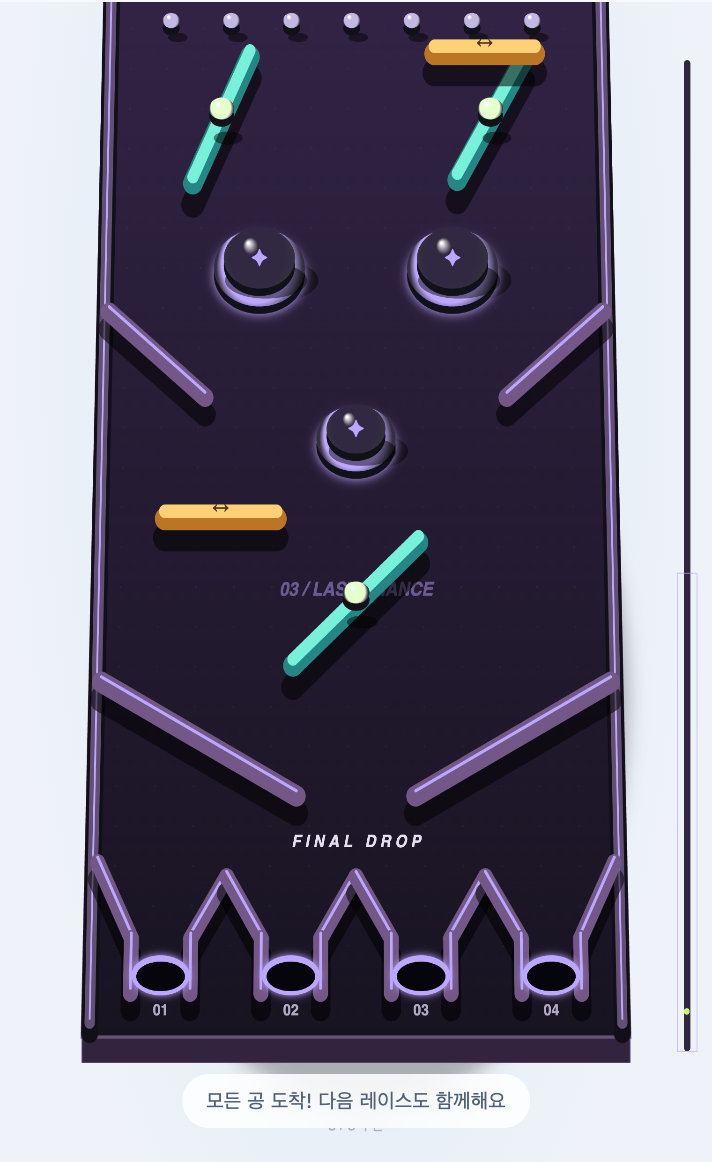
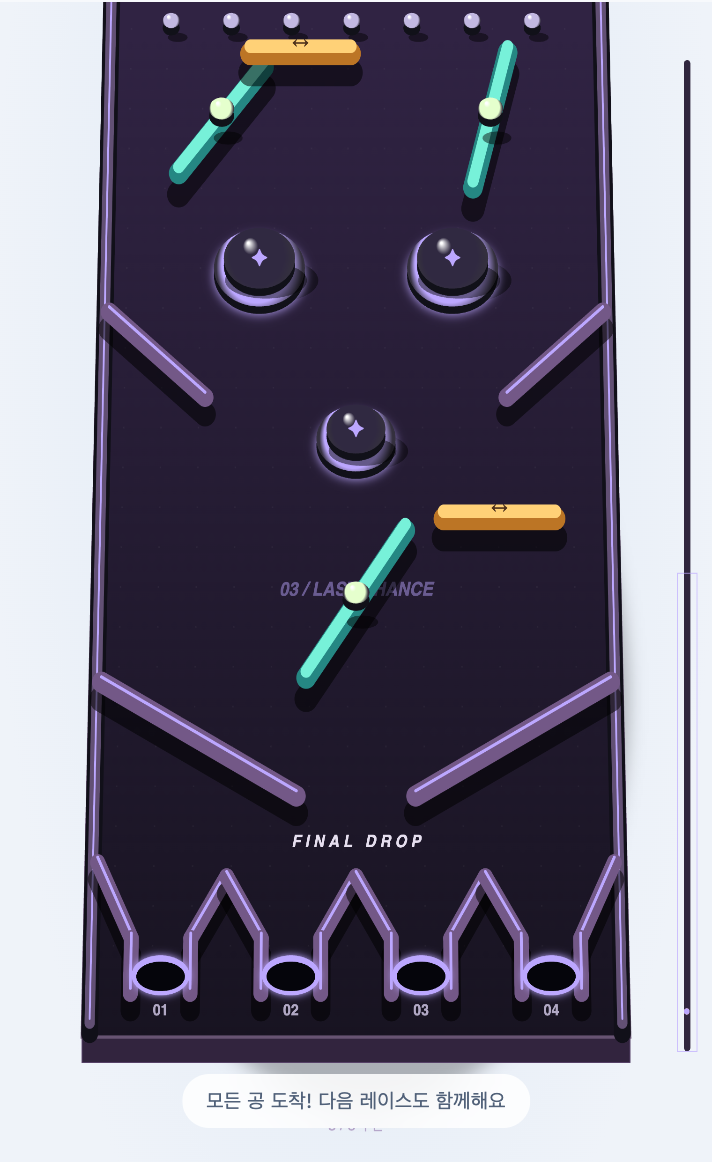
feat(pinball): strengthen 3D depth with perspective cameras and verify 60-ball 3x races

diff --git a/pinball/src/renderer3d.js b/pinball/src/renderer3d.js
@@ -3,16 +3,18 @@ const S=1/60, X=x=>(x-310)*S, Z=y=>y*S;
 const THEMES={neon:{floor:0x164ecc,accent:0xd6ff5f},orbit:{floor:0x9c3b26,accent:0xffd797},zigzag:{floor:0x116a66,accent:0xadf8dd},split:{floor:0x5831a0,accent:0xe9c6ff}};
 export class Renderer3D {
  constructor(canvas){
-  this.canvas=canvas;this.mode='webgl';this.overview=false;this.lastRound=null;this.cameraCenter=400;this.finishedAt=new Map();
+  this.canvas=canvas;this.mode='webgl';this.overview=false;this.angle=0;this.lastRound=null;this.cameraCenter=400;this.finishedAt=new Map();
   this.webgl=new THREE.WebGLRenderer({canvas,antialias:true,alpha:true,powerPreference:'high-performance'});
   this.webgl.setPixelRatio(Math.min(devicePixelRatio||1,1.5));this.webgl.shadowMap.enabled=true;this.webgl.shadowMap.type=THREE.PCFSoftShadowMap;this.webgl.outputColorSpace=THREE.SRGBColorSpace;this.webgl.toneMapping=THREE.ACESFilmicToneMapping;this.webgl.toneMappingExposure=.92;
-  this.scene=new THREE.Scene();this.camera=new THREE.OrthographicCamera(-6,6,8,-8,.1,110);
+  this.scene=new THREE.Scene();this.camera=new THREE.PerspectiveCamera(40,1,.1,180);
   this.scene.add(new THREE.HemisphereLight(0xe4efff,0x48618d,1.1));
   this.light=new THREE.DirectionalLight(0xffffff,2.6);this.light.position.set(-6,16,1);this.light.castShadow=true;this.light.shadow.mapSize.set(1024,1024);this.light.shadow.camera.left=-8;this.light.shadow.camera.right=8;this.light.shadow.camera.top=13;this.light.shadow.camera.bottom=-13;this.light.shadow.camera.near=.1;this.light.shadow.camera.far=50;this.light.shadow.normalBias=.03;this.light.shadow.bias=-.0002;this.scene.add(this.light,this.light.target);
   const rim=new THREE.DirectionalLight(0xb3cdff,.8);rim.position.set(8,6,15);this.scene.add(rim);
   const faces=Array.from({length:6},(_,i)=>{const c=document.createElement('canvas');c.width=c.height=64;const ctx=c.getContext('2d'),g=ctx.createLinearGradient(0,0,0,64);g.addColorStop(0,i===2?'#ffffff':'#c9d9f6');g.addColorStop(.5,'#6f8fbd');g.addColorStop(1,'#182642');ctx.fillStyle=g;ctx.fillRect(0,0,64,64);ctx.fillStyle='#ffffff';ctx.fillRect(6,6,44,12);return c;});this.environment=new THREE.CubeTexture(faces);this.environment.needsUpdate=true;this.scene.environment=this.environment;
   this.labels=document.createElement('div');this.labels.className='ball-labels';canvas.parentElement.append(this.labels);this.hud=document.createElement('div');this.hud.className='camera-hud';canvas.parentElement.append(this.hud);
-  this.progress=document.createElement('div');this.progress.className='course-progress';canvas.parentElement.append(this.progress);this.observer=new ResizeObserver(()=>this.resize());this.observer.observe(canvas);this.resize();
+  this.progress=document.createElement('div');this.progress.className='course-progress';canvas.parentElement.append(this.progress);
+  this.angleButton=document.createElement('button');this.angleButton.className='camera-angle';this.angleButton.type='button';this.angleButton.textContent='◈ 입체 시점';this.angleButton.setAttribute('aria-label','3D 카메라 시점 변경');this.angleButton.addEventListener('click',()=>{this.angle=(this.angle+1)%3;this.angleButton.textContent=['◈ 입체 시점','◈ 측면 시점','◈ 상단 시점'][this.angle];});canvas.parentElement.append(this.angleButton);
+  this.observer=new ResizeObserver(()=>this.resize());this.observer.observe(canvas);this.resize();
   canvas.addEventListener('webglcontextlost',e=>{e.preventDefault();document.dispatchEvent(new Event('pinball-renderer-lost'));});
  }
  resize(){const rect=this.canvas.getBoundingClientRect();this.width=Math.max(1,rect.width);this.height=Math.max(1,rect.height);this.webgl.setSize(this.width,this.height,false);this.aspect=this.width/this.height;}
@@ -27,7 +29,11 @@ export class Renderer3D {
   const map=race.map,theme=THEMES[map.id],length=map.height*S;
   const shape=new THREE.Shape();shape.moveTo(-5.08,-length+.25);shape.lineTo(-5.08,-.25);shape.quadraticCurveTo(-5.08,0,-4.83,0);shape.lineTo(4.83,0);shape.quadraticCurveTo(5.08,0,5.08,-.25);shape.lineTo(5.08,-length+.25);shape.quadraticCurveTo(5.08,-length,4.83,-length);shape.lineTo(-4.83,-length);shape.quadraticCurveTo(-5.08,-length,-5.08,-length+.25);
   for(const h of map.exits){const hole=new THREE.Path();hole.absarc(X(h.x),-Z(map.finish),.5,0,Math.PI*2,true);shape.holes.push(hole);}
-  const board=this.mesh(new THREE.ExtrudeGeometry(shape,{depth:.35,bevelEnabled:true,bevelSegments:2,steps:1,bevelSize:.035,bevelThickness:.035}),this.material(theme.floor,.16,.42),0,-.36,0);board.rotation.x=-Math.PI/2;board.material.envMapIntensity=.12;
+  const deck=this.material(theme.floor,.08,.5);deck.envMapIntensity=.08;
+  const edge=this.material(0x14243e,.45,.28);edge.envMapIntensity=.3;
+  const board=this.mesh(new THREE.ExtrudeGeometry(shape,{depth:.8,bevelEnabled:true,bevelSegments:3,steps:1,bevelSize:.055,bevelThickness:.035}),[deck,edge],0,-.81,0);board.rotation.x=-Math.PI/2;
+  const ground=this.mesh(new THREE.PlaneGeometry(70,100),this.material(0xe7edf5,0,.85),0,-1.55,length/2);ground.rotation.x=-Math.PI/2;ground.castShadow=false;
+  for(const z of [1.4,length/2,length-1.4])for(const x of [-4.2,4.2])this.mesh(new THREE.CylinderGeometry(.28,.4,.7,12),edge,x,-1.14,z);
   const silver=this.material(0xe9eef9,.65,.23),white=this.material(0xf8faff,.2,.3),accent=this.material(theme.accent,.2,.25),dark=this.material(0x192b49,.4,.35);
   this.rail({ax:24,ay:18,bx:24,by:map.height-20,r:10},silver);this.rail({ax:596,ay:18,bx:596,by:map.height-20,r:10},silver);this.rail({ax:24,ay:18,bx:596,by:18,r:10},silver);
   for(const p of map.pins){this.mesh(new THREE.CylinderGeometry(p.r*S,p.r*S,.28,12),silver,X(p.x),.14,Z(p.y));this.mesh(new THREE.SphereGeometry(p.r*S,12,8),white,X(p.x),.28,Z(p.y));}
@@ -42,15 +48,25 @@ export class Renderer3D {
   for(const b of race.balls){const mat=new THREE.MeshPhysicalMaterial({color:b.color,metalness:.25,roughness:.17,clearcoat:1,clearcoatRoughness:.12});const m=this.mesh(sphere,mat,X(b.x),.19,Z(b.y));const label=document.createElement('span');label.className='ball-label';label.textContent=[...b.label].slice(0,5).join('')+([...b.label].length>5?'…':'')+(race.config.people.find(p=>p.id===b.participantId).count>1?`·${b.number}`:'');label.title=b.label;this.labels.append(label);const dot=document.createElement('i');dot.style.background=b.color;this.progress.append(dot);this.balls.set(b.id,{m,label,dot});}
  }
  draw(race,reduced=false,selected=null){
-  if(this.lastRound!==race.roundId)this.build(race);const map=race.map,aspect=this.aspect||1;const halfW=5.95,halfH=halfW/aspect;const span=halfH*2/.857*60;
-  const active=race.balls.filter(b=>!b.finished).sort((a,b)=>a.y-b.y);const progress=active[Math.floor(active.length*.65)]?.y??map.finish;const target=['ready','mixing','countdown'].includes(race.state)?span/2-60:Math.max(span/2-60,Math.min(map.height-span/2+30,progress+100));
+  if(this.lastRound!==race.roundId)this.build(race);const map=race.map,aspect=this.aspect||1;
+  const directions=[new THREE.Vector3(.18,.72,.67),new THREE.Vector3(.35,.60,.72),new THREE.Vector3(0,.94,.34)];const direction=directions[this.angle].normalize();
+  const distance=Math.max(20,7.2/(Math.tan(THREE.MathUtils.degToRad(20))*aspect));
+  const active=race.balls.filter(b=>!b.finished).sort((a,b)=>a.y-b.y);const progress=active[Math.floor(active.length*.65)]?.y??map.finish;const target=['ready','mixing','countdown'].includes(race.state)?400:Math.max(400,Math.min(map.finish-200,progress+100));
   if(race.state!=='paused')this.cameraCenter=reduced?target:this.cameraCenter+(target-this.cameraCenter)*.08;
-  const center=this.overview?map.height/2:this.cameraCenter;const h=this.overview?map.height*S*.46:halfH;this.camera.left=-h*aspect;this.camera.right=h*aspect;this.camera.top=h;this.camera.bottom=-h;this.camera.updateProjectionMatrix();this.camera.position.set(.22,16,Z(center)+9);this.camera.lookAt(0,0,Z(center));
+  const center=this.overview?map.height/2:this.cameraCenter;let cameraDistance=this.overview?Math.max(distance,map.height*S*1.45):distance;
+  this.camera.aspect=aspect;this.camera.updateProjectionMatrix();
+  for(let fit=0;fit<8;fit++){
+   this.camera.position.copy(direction.clone().multiplyScalar(cameraDistance)).add(new THREE.Vector3(0,0,Z(center)));this.camera.lookAt(0,0,Z(center));this.camera.updateMatrixWorld();
+   if(!this.overview)break;
+   const corners=[[-5.15,0],[5.15,0],[-5.15,map.height*S],[5.15,map.height*S]].map(([x,z])=>new THREE.Vector3(x,-.8,z).project(this.camera));
+   if(corners.every(v=>Math.abs(v.x)<.92&&Math.abs(v.y)<.92))break;
+   cameraDistance*=1.1;
+  }
   this.light.position.set(-5,16,Z(center)-5);this.light.target.position.set(0,0,Z(center));
   const segments=race.rotorSegments();segments.forEach((s,i)=>this.rotors[i].quaternion.setFromUnitVectors(new THREE.Vector3(0,1,0),new THREE.Vector3(s.bx-s.ax,0,s.by-s.ay).normalize()));race.sliderSegments().forEach((s,i)=>this.sliders[i].position.x=X((s.ax+s.bx)/2));
   this.gate.visible=['ready','mixing','countdown'].includes(race.state)||(race.state==='paused'&&race.resumeState!=='racing');
   const now=performance.now();for(const b of race.balls){const {m,label,dot}=this.balls.get(b.id);if(b.finished&&!this.finishedAt.has(b.id))this.finishedAt.set(b.id,now);const sink=b.finished?Math.min(1,(now-this.finishedAt.get(b.id))/380):0;m.visible=sink<1;m.position.set(X(b.x),.19-sink*.8,Z(b.y));m.scale.setScalar(1-sink*.6);m.rotation.x+=b.vy*.00025;m.rotation.z-=b.vx*.00025;dot.style.top=`${b.y/map.height*100}%`;const v=new THREE.Vector3(X(b.x),.6,Z(b.y)).project(this.camera);label.hidden=b.finished||this.overview||Math.abs(v.x)>1||Math.abs(v.y)>.98;label.style.left=`${(v.x*.5+.5)*100}%`;label.style.top=`${(-v.y*.5+.5)*100}%`;}
-  this.hud.textContent=this.overview?'COURSE OVERVIEW':`SECTOR ${Math.min(3,Math.floor((center-200)/750)+1).toString().padStart(2,'0')} / 03`;
+  this.hud.textContent=this.overview?'3D / COURSE OVERVIEW':`3D / SECTOR ${Math.max(1,Math.min(3,Math.floor((center-200)/750)+1)).toString().padStart(2,'0')} / 03`;
   this.webgl.render(this.scene,this.camera);
  }
 }

diff --git a/pinball/src/style.css b/pinball/src/style.css
@@ -6,3 +6,4 @@
 :root{--bg:#f2f4f7;--panel:#fff;--line:#dfe3e9;--muted:#6f7784;--text:#172132;--lime:#d5fa54;--purple:#3766d7;color-scheme:light}
 .topbar{background:#fff;min-height:76px;border-bottom-color:#e3e7ed}.brand{font-size:23px;letter-spacing:-1.2px}.brand>span:not(.brand-icon):not(.brand-dot){color:#3766d7}.brand-icon{background:#1f5ae8;color:white;border-radius:10px}.icon-button{border-color:#dce1e9;color:#293448}.icon-button[aria-pressed=true]{border-color:#215ae7;color:#215ae7;background:#edf2ff}.free{color:#718097}.intro{padding:28px 0 24px}.intro .eyebrow{color:#3464d3}.intro h1{font-size:36px;letter-spacing:-1.8px}.intro-note{color:#727e8f}.panel{border-radius:16px;box-shadow:0 3px 15px #182f4c05}.setup{border-color:#e1e6ee}textarea,input[type=text]{background:#f7f9fc;border-color:#dae1ec;color:#182639}textarea{border-radius:9px}.hint code{color:#33547e}.count-strip strong{color:#1a57da}.rule-option{border-color:#e1e6ee}.rule-option:has(input:checked){border-color:#3468e9;background:#f0f5ff}.rule-option:has(input:checked) .radio-dot{border-color:#3468e9}.rule-summary strong{color:#164bcb}.primary{background:#1d5bf0;color:#fff;border-radius:10px;box-shadow:0 5px 12px #1d5bf026}.setup-foot{color:#7e8a9b}.arena{background:radial-gradient(ellipse at 50% 45%,#dce7f4,#eff3f9 73%);border-color:#d6dfe9;box-shadow:0 12px 40px #214b8012}.arena-header{background:#fff;padding:20px 22px 16px}.arena-header h2{font-size:28px;font-style:normal;letter-spacing:-1.4px}.arena-header h2>span:last-child{color:#2862e8;font-size:24px}.map-label{font-size:10px;letter-spacing:1.4px}.state-tag{border-color:#bed2fb;background:#eef4ff;color:#1e58d6;border-radius:20px;font-size:10px;font-weight:750;padding:8px 10px}.map-selector{background:white;padding:0 20px 16px;gap:7px}.map-choice{background:#f6f8fc;border-color:#e3e8f1;color:#67758a;border-radius:9px}.map-choice b{color:#5a75a0;font-weight:700}.map-choice[aria-pressed=true]{border-color:#2862e8;color:#1956d5;background:#edf3ff}.map-choice[aria-pressed=true] b{color:#1956d5}.race-info{padding:12px 22px;color:#566983;background:#f7f9fc;border-top:1px solid #e7ecf2;font-size:12px}.board-wrap{margin:0;overflow:hidden}.board-wrap canvas{height:clamp(520px,67vh,760px);width:100%;object-fit:fill;touch-action:pan-y}.arena-controls{background:#fff;border-top:1px solid #dfe6ef;gap:16px}.arena-controls .secondary{background:#edf3ff;color:#235bd3;border:1px solid #d5e1f8;border-radius:7px}.arena-controls>span{color:#245acd;font-weight:700}.track-legend{background:white;border-color:#e9edf3;color:#78879b;font-size:11px}.race-message{bottom:17px;z-index:4;color:#516179;background:#ffffffd9;backdrop-filter:blur(8px);padding:7px 12px;border-radius:30px;font-size:11px;max-width:95%;white-space:normal;text-align:center}.winner-card{background:radial-gradient(circle at 50% 42%,#f0f5ff,white 76%);border-color:#dfe6f0}.winner-card .eyebrow{color:#597496}.winner-orb{background:radial-gradient(circle at 30% 22%,#fff,#d7e3f6 42%,#84a5d6 78%);box-shadow:inset -2px -3px 5px #365c8640,0 12px 20px #426a9926;color:#7693bb;font-weight:400}.winner-card.celebrated{border-color:#2b64e9;background:#f4f8ff}.winner-card.celebrated h2{color:#1d57d6}.rank-row{border-color:#e8edf4}.rank-row.target,.rank-row.target .rank-number{color:#2058d0}.little-note{color:#76859a}.little-note details{border-color:#dce3ed}#ranking-empty>span{color:#aebed3}.rank-row .rank-name small{color:#738298}.ranking .section-heading h2{font-size:17px}.little-note>span{color:#4870af}footer{border-color:#dce4ed;color:#8493a6}.countdown{background:#ffffffee;color:#225beb;text-shadow:none;box-shadow:0 15px 70px #0b215333}.pause-overlay{background:#edf3fbdc}.pause-overlay span{color:#225be4}.pause-overlay p{color:#647a98}.pause-overlay strong{color:#1e3657}.ball-labels{position:absolute;inset:0;pointer-events:none;overflow:hidden}.ball-label{position:absolute;transform:translate(-50%,-100%);background:#101e3cdb;backdrop-filter:blur(3px);color:#fff;font-size:11px;font-weight:600;line-height:1.3;padding:3px 5px;border-radius:4px;white-space:nowrap;box-shadow:0 2px 6px #0a183222}.camera-hud{position:absolute;top:18px;left:18px;color:#426187;font-size:10px;font-weight:700;letter-spacing:1.4px;background:#ffffffb8;padding:7px 10px;border-radius:6px}.course-progress{position:absolute;top:18px;bottom:52px;right:14px;width:3px;border-radius:3px;background:#b6c9df66}.course-progress i{position:absolute;width:5px;height:5px;left:-1px;border-radius:50%;box-shadow:0 0 0 1px #2e507644}@media(max-width:700px){.topbar{padding:14px 16px}.brand{font-size:19px}.brand-icon{width:28px;height:28px}.intro h1{font-size:29px}.intro{padding:26px 0 22px}.arena-header h2{font-size:26px}.board-wrap canvas{height:580px}.ball-label{font-size:12px}.arena-controls{gap:12px;padding:12px}.arena-controls .text-button{font-size:12px}.arena-controls>span{font-size:11px}.course-progress{right:8px}.race-message{font-size:10px}.camera-hud{left:10px;top:10px;font-size:9px}}
 .playback-speed{display:flex;gap:3px;margin-left:auto;margin-right:14px;padding:3px;background:#e7edf6;border-radius:8px}.playback-speed button{min-width:38px;min-height:32px;border:0;border-radius:5px;background:transparent;color:#69809e;font-size:12px;font-weight:750}.playback-speed button[aria-pressed=true]{background:white;box-shadow:0 1px 5px #2947681a;color:#205be0}.race-info{align-items:center}.race-info>span:first-child{max-width:48%}@media(max-width:700px){.race-info{padding:10px 12px;flex-wrap:wrap;gap:6px}.playback-speed{margin-right:4px}.playback-speed button{min-height:40px;min-width:34px}.race-info #timer{font-size:11px}}
+.camera-angle{position:absolute;z-index:5;right:20px;top:14px;min-height:40px;padding:0 12px;background:#14243ee8;color:white;border:1px solid #ffffff50;border-radius:9px;font-family:inherit;font-size:11px;font-weight:600;box-shadow:0 4px 14px #14243e22;cursor:pointer}.camera-angle:hover{background:#235bea}.camera-angle:focus-visible{outline:3px solid #d6ff5f;outline-offset:2px}@media(max-width:700px){.camera-angle{right:12px;top:8px;font-size:10px;min-height:40px;padding:0 9px}.camera-hud{max-width:48%;line-height:1.5}}

diff --git a/pinball/src/app.js b/pinball/src/app.js
@@ -27,12 +27,12 @@ function frame(now){const begin=performance.now();const rawDelta=last?now-last:0
  renderer.draw(race,reduced,selected);if(now-lastUi>80){renderStatus();lastUi=now;}}
  const cost=performance.now()-begin;frames++;totalFrameCost+=cost;if(frameStats.length<1200)frameStats.push({delta:rawDelta,cost,state:race?.state,total:race?.balls.length});else{frameStats.shift();frameStats.push({delta:rawDelta,cost,state:race?.state,total:race?.balls.length});}requestAnimationFrame(frame);}
 document.querySelectorAll('[data-speed]').forEach(button=>button.addEventListener('click',()=>{playbackSpeed=Number(button.dataset.speed);document.querySelectorAll('[data-speed]').forEach(b=>b.setAttribute('aria-pressed',String(b===button)));announce(`${playbackSpeed}배속으로 재생합니다.`);}));
-$('participants').value=SAMPLE_NAMES.join('\n');$('participants').addEventListener('input',()=>{if(locked())return;overrides={};refresh();});$('default-count').addEventListener('input',()=>{overrides={};refresh();});document.querySelectorAll('input[name=rule]').forEach(e=>e.addEventListener('change',()=>refresh(false)));$('nth').addEventListener('input',()=>refresh(false));$('sample').addEventListener('click',()=>{if(locked())return;document.querySelectorAll('[data-speed]').forEach(button=>button.addEventListener('click',()=>{playbackSpeed=Number(button.dataset.speed);document.querySelectorAll('[data-speed]').forEach(b=>b.setAttribute('aria-pressed',String(b===button)));announce(`${playbackSpeed}배속으로 재생합니다.`);}));
+$('participants').value=SAMPLE_NAMES.join('\n');$('participants').addEventListener('input',()=>{if(locked())return;overrides={};refresh();});$('default-count').addEventListener('input',()=>{overrides={};refresh();});document.querySelectorAll('input[name=rule]').forEach(e=>e.addEventListener('change',()=>refresh(false)));$('nth').addEventListener('input',()=>refresh(false));$('sample').addEventListener('click',()=>{if(locked())return;
 $('participants').value=SAMPLE_NAMES.join('\n');$('default-count').value='1';overrides={};refresh();});$('view').addEventListener('click',()=>{renderer.overview=!renderer.overview;$('view').setAttribute('aria-pressed',String(renderer.overview));$('view').textContent=renderer.overview?'따라가기':'전체 맵';});$('start').addEventListener('click',start);$('pause').addEventListener('click',pause);$('reset').addEventListener('click',reset);$('edit').addEventListener('click',()=>{reset();$('participants').focus();});$('sound').addEventListener('click',toggleSound);$('motion').addEventListener('click',()=>{reduced=!reduced;setReduced();});
 MAPS.forEach((map,i)=>{const b=document.createElement('button');b.className='map-choice';b.dataset.map=map.id;b.style.setProperty('--accent',map.accent);b.setAttribute('aria-pressed',String(i===0));const n=document.createElement('b');n.textContent=['⠿','◎','ϟ','⋈'][i];const t=document.createElement('span');t.textContent=map.subtitle;b.append(n,t);b.addEventListener('click',()=>{if(locked())return;mapId=map.id;document.querySelectorAll('.map-choice').forEach(e=>e.setAttribute('aria-pressed',String(e===b)));$('map-name').textContent=map.name;$('map-index').textContent=`THE ORIGINAL / MAP 0${i+1}`;refresh(false);});$('map-selector').append(b);});
 document.addEventListener('pinball-renderer-lost',()=>{race?.pause();renderStatus();announce('그래픽 연결이 끊겨 일시정지했습니다. 페이지를 새로고침해 주세요.');});
 document.addEventListener('visibilitychange',()=>{if(document.hidden&&race?.pause()){accumulator=0;renderStatus();announce('화면을 떠나 경기를 일시정지했습니다.');}});
 setReduced();refresh();requestAnimationFrame(frame);
 // Read-only diagnostics: no route to inject a winner or advance the simulation.
-window.pinball=Object.freeze({snapshot:()=>race?.snapshot(),performance:()=>({frames,averageCostMs:totalFrameCost/frames,samples:frameStats.slice()}),settings:()=>({sound,reduced,mapId,playbackSpeed,renderer:renderer.mode}),exportRound:()=>({config:race.config,seed:race.seed,result:race.snapshot()})});
+window.pinball=Object.freeze({snapshot:()=>race?.snapshot(),performance:()=>({frames,averageCostMs:totalFrameCost/frames,samples:frameStats.slice()}),settings:()=>({sound,reduced,mapId,playbackSpeed,renderer:renderer.mode,camera:renderer.camera?.type||'Canvas2D'}),exportRound:()=>({config:race.config,seed:race.seed,result:race.snapshot()})});
 const modelContext=document.modelContext;if(modelContext?.registerTool){for(const tool of [{name:'read_pinball_race',description:'Read the current actual race state and finish order.',inputSchema:{type:'object',properties:{},additionalProperties:false},annotations:{readOnlyHint:true},execute:()=>window.pinball.snapshot()},{name:'start_pinball_race',description:'Start a race with the visible validated participant and rule settings. Fails when a race is active.',inputSchema:{type:'object',properties:{},additionalProperties:false},execute:()=>{if(!start())throw new Error('Race is active or input is invalid');return window.pinball.snapshot();}}]){try{Promise.resolve(modelContext.registerTool(tool)).catch(()=>{});}catch{}}}

diff --git a/pinball/README.md b/pinball/README.md
@@ -53,6 +53,7 @@ node scripts/serve.mjs --dist
 - **일시정지·재개:** 공 위치, 순위, 장애물 위치와 경기 시간을 그대로 보존합니다. 섞기·카운트다운 중에도 동작합니다.
 - **처음부터:** 현재 경기를 폐기하고 같은 설정의 대기 상태로 돌아갑니다. 이전 당첨·순위는 지워집니다.
 - **전체 맵 / 따라가기:** 긴 경기장의 전체 구조를 보거나 자동 카메라로 현재 진행 구간을 봅니다. 카메라는 판정에 관여하지 않습니다.
+- **입체 / 측면 / 상단 시점:** 경기장 우측 상단에서 3D 카메라 각도를 바꿉니다. 원근 카메라와 실제 입체 메시를 사용하며, 두꺼운 보드 측면·받침·그림자를 볼 수 있습니다. 정지 중 시점을 바꿔도 공과 순위는 움직이지 않습니다.
 - **1× / 2× / 3×:** 대기 중·경기 중·일시정지 중 바꿀 수 있습니다. 더 많은 고정 물리 스텝을 실행해 재생만 가속하며, 순위·구멍 판정·경기 시간은 같은 물리 기준을 사용합니다.
 - **소리:** 기본 음소거. 충돌음·출발음·도착음·당첨음을 Web Audio로 합성합니다.
 - **연출 줄이기:** OS 설정을 처음 반영합니다. 축하 조각과 슬로모션을 끄며 카메라 보간을 줄입니다. 경기 물리는 동일합니다.
@@ -76,7 +77,7 @@ node scripts/serve.mjs --dist
 
 - 질량·반지름·반발 계수는 모든 공에 동일합니다. 반지름은 10 물리 단위입니다.
 - 물리는 1/120초 고정 간격의 평면 시뮬레이션입니다. 중력, 공끼리의 충돌, 원형 핀·범퍼, 선분 레일·회전문·이동 장애물을 계산합니다. 속도는 초당 560 단위로 제한하고 각 스텝에서 4회 충돌 보정을 수행합니다.
-- 실제 3D 화면은 Three.js WebGL로 그리며, 보드 두께·구멍·금속 핀·조명·그림자·공의 반사광을 제공합니다. WebGL 초기화가 불가능하면 Canvas 2.5D로 대체합니다. 물리는 두 렌더러가 공유합니다.
+- 실제 3D 화면은 Three.js WebGL의 PerspectiveCamera와 입체 메시로 그립니다. 두께 0.8의 보드·뚫린 구멍·금속 핀·받침·조명·그림자·공의 반사광을 제공합니다. 공의 이동·충돌 계산은 보드 평면에서 이루어지며 자유 낙하하는 3축 강체 물리는 아닙니다. WebGL 초기화가 불가능한 기기에만 Canvas 2.5D 호환 화면을 제공합니다.
 - 출발 위치와 순서는 `crypto.getRandomValues`에서 받은 시드와 Fisher–Yates 섞기로 결정합니다. 경기 중 무작위는 동일한 탈출 보조 규칙에만 사용합니다.
 - 결승 구멍 중심 x는 100·240·380·520, 폭은 64입니다. 각 구멍의 입구와 사이 경사 레일은 실제 충돌 대상입니다.
 - 공 중심이 y=2,150 판정선을 **구멍 안쪽으로** 넘어가야 도착합니다. 같은 물리 스텝 안에서도 선형 보간한 통과 시각으로 순서를 매깁니다. 구멍 사이로 선을 넘는 비정상 경로는 집계하지 않고 되튕깁니다.
@@ -101,6 +102,9 @@ Chrome 및 Playwright가 있는 환경에서 서버를 켜고:
 ```sh
 node tests/browser.mjs
 node tests/speed.mjs
+node tests/perspective.mjs
+node scripts/build.mjs
+node tests/build-smoke.mjs
 # Playwright가 일반 모듈 경로에 없을 때:
 PLAYWRIGHT_MODULE_PATH=/absolute/path/to/playwright/index.mjs node tests/browser.mjs
 ```
@@ -111,6 +115,7 @@ PLAYWRIGHT_MODULE_PATH=/absolute/path/to/playwright/index.mjs node tests/browser
 - [물리 결과](evidence/physics-results.json): 4맵 × 10시드 × 1/20/60개 = 120경기
 - [배속 검증](evidence/speed-results.json): 같은 시드의 1·2·3배속과 경기 중 속도 변경 비교
 - [브라우저 결과](evidence/browser-results.json): PC·모바일 흐름, 실제 렌더링 성능
+- [원근 3D 검증](evidence/perspective-results.json): 시점 전환, PC·모바일 최대 60개 공·3배속, 같은 브라우저 재현 및 성능
 - [명령 기록](evidence/commands.md), [에이전트 세션 로그](evidence/agent-session.md)
 - `evidence/*.png`: PC·모바일·4개 맵 시연 화면
 - `evidence/*-round.json`: 실제 검증 경기 설정·시드·도착 기록·당첨자

diff --git a/pinball/evidence/verification.md b/pinball/evidence/verification.md
@@ -12,7 +12,7 @@
 
 ## 최대 60개 공 성능
 
-3D 경기 초반 약 5.5초의 requestAnimationFrame 간격을 측정했다. 전용 벤치마크 환경이 아니며 다른 앱과 미리보기가 실행 중이었다. JS 비용은 GPU 전체 시간이 아니다. 모바일은 실제 휴대폰이 아닌 Chrome 에뮬레이션이다. 아래는 1배속 시점이며 최대 60개·3배속 조합은 별도 측정하지 않았다.
+3D 경기 초반 약 5.5초의 requestAnimationFrame 간격을 측정했다. 전용 벤치마크 환경이 아니며 다른 앱과 미리보기가 실행 중이었다. JS 비용은 GPU 전체 시간이 아니다. 모바일은 실제 휴대폰이 아닌 Chrome 에뮬레이션이다. 아래 첫 표는 원근 카메라 적용 전 1배속 측정이다.
 
 | 환경 / 맵 | 평균 FPS | JS 평균 ms | JS p95 ms | 프레임 간격 p95 ms |
 |---|---:|---:|---:|---:|
@@ -21,6 +21,15 @@
 | PC / 지그재그 | 56.3 | 1.65 | 2.4 | 33.3 |
 | PC / 갈림길 | 58.4 | 1.84 | 2.3 | 16.8 |
 | 모바일 390×844 DPR 2 / 네온 | 56.2 | 2.55 | 3.7 | 33.3 |
+
+최종 원근 3D 카메라에서 **60개 공·3배속**을 추가 측정했다. 네온 맵의 경기 초반 표본이며 모든 기기의 최소 성능을 뜻하지 않는다. 최종 카메라에 대한 다른 세 맵의 추가 성능 측정은 하지 않았다.
+
+| 최종 환경 / 네온·3배속 | 평균 FPS | JS 평균 ms | 프레임 간격 p95 ms | 표본 프레임 |
+|---|---:|---:|---:|---:|
+| PC 1440×1000 | 45.0 | 5.78 | 33.4 | 195 |
+| 모바일 에뮬레이션 390×844 DPR 2 | 52.2 | 4.93 | 33.3 | 227 |
+
+두 환경 모두 실제 PerspectiveCamera, 정지 중 입체·측면·상단 각도 변경, 60개 공 완주, 네 구멍 통과, 중복 집계 없음, 순위 DOM·당첨자·같은 Chrome 재실행의 정확한 일치를 통과했다. `perspective-results.json`, `iteration-8-perspective.log`, `3d-*.png`에 결과를 보존했다. 최종 UI에서 경기를 가속해도 고정 물리 스텝은 동일하다.
 
 120경기의 물리 시간(초), 최소 / 중앙 / 최대:
 
@@ -36,7 +45,7 @@
 - 최초 동시 도착 테스트 fixture가 결승선에 닿지 않는 위치였음. fixture를 수정하고 통과.
 - 긴 지그재그 맵의 경사 레일·범퍼 겹침으로 정체. 겹치는 범퍼 두 개를 열린 통로로 이동해 해결하고 120경기를 재검증.
 - Node와 Chrome의 부동소수점 차이가 충돌 과정에서 확대되어 시드만으로 서로 다른 런타임의 동일 순서를 보장하지 못함. 같은 Chrome 재실행은 일치. 한계를 README에 기록했고 실패 로그도 보존.
-- HTTPS Git push는 CLI 인증 부재로 실패. 원격의 첫 머지 6cfd4bb는 별도 조회로 확인했지만 실패한 push를 성공으로 기록하지 않는다. 후속 전달 상태는 Git 로그에 기록한다.
+- HTTPS Git push는 CLI 인증 부재로 실패. 사용자가 Fork 토큰 인증이라고 알려 준 뒤 Fork UI를 통해 일반 push 성공. 원격 main의 c7f1e00e74997027f34f6243a3d10ae6fe4fe79c 일치를 확인했다. CLI에 토큰을 복사하지 않았다. 후속 직접 main 커밋은 별도 Git 전달 기록에 남긴다.
 
 ## 미실행·한계
 

diff --git a/pinball/evidence/agent-session.md b/pinball/evidence/agent-session.md
@@ -76,3 +76,13 @@
 - 첫 승인 리뷰 거절은 정확한 URL·전송 내용 승인 후 해소. 이후 남은 장애는 Git credential helper에서 username/password가 모두 없는 HTTPS 인증 상태. 값은 출력하지 않고 존재 여부만 확인했다.
 - 사용자가 인증 완료라고 알린 뒤 재시도했으나 같은 인증 오류. SSH는 미등록 호스트 키로 실패했으며 검증을 끄거나 임의 키를 신뢰하지 않았다.
 - 원본 checkout의 feature/bwlee 및 미추적 .idea/를 보존. 기존 데이터 삭제·원격 강제 푸시·웹사이트 공개 배포는 하지 않았다.
+
+## 반복 8 — 빌드 검증·원근 3D 마무리
+
+- 빌드 13개 파일 해시, 모바일 3배속 N번째 당첨·구멍 통과·재시작을 WebGL 및 Canvas fallback에서 실제 실행해 모두 통과.
+- 사용자가 입체감을 재차 요청해 정사영 카메라를 원근 카메라로 바꾸고 입체·측면·상단 선택을 추가. 보드 두께를 늘리고 어두운 측면·받침·바닥 그림자 추가. 물리 판정은 변경하지 않았다.
+- 시각 확인에서 결승부가 화면 아래에 잘리는 문제 발견. 카메라 추적 목표를 실제 진행 위치 중심으로 바꾸고 전체 맵은 화면에 맞도록 투영된 모서리를 검사한다.
+- 새 카메라의 PC·모바일 60개 공·3배속, 정지 중 각도 변경, 순위 중복 방지·실제 구멍·같은 Chrome 재현을 테스트했다. 최종 수치는 perspective-results.json에 저장.
+- 샘플 버튼을 누를 때 배속 이벤트가 중복 등록되는 부분을 발견해 불필요한 등록을 제거했다.
+- 최종 문서 생성 시 Python 표준입력 인코딩 오류, CSS 추가 시 중복 상대 경로 오류가 각각 발생했다. 파일 패치 및 올바른 경로로 바로 수정. 제품 실행 오류가 아니며 결과를 숨기지 않는다.
+- 사용자의 최신 요청에 따라 main에 직접 c7f1e00 커밋. Fork의 기존 토큰 인증으로 origin/main에 일반 push를 실행했으며, 원격 해시 c7f1e00e74997027f34f6243a3d10ae6fe4fe79c 일치 확인. 토큰 내용을 조회·복사·출력하지 않았다.

diff --git a/pinball/evidence/commands.md b/pinball/evidence/commands.md
@@ -9,6 +9,10 @@ node scripts/serve.mjs
 node --test tests/physics.test.mjs
 node scripts/build.mjs
 PLAYWRIGHT_MODULE_PATH=/Applications/ChatGPT.app/Contents/Resources/cua_node/lib/node_modules/playwright/index.mjs node tests/browser.mjs
+PLAYWRIGHT_MODULE_PATH=/Applications/ChatGPT.app/Contents/Resources/cua_node/lib/node_modules/playwright/index.mjs node tests/speed.mjs
+PLAYWRIGHT_MODULE_PATH=/Applications/ChatGPT.app/Contents/Resources/cua_node/lib/node_modules/playwright/index.mjs node tests/perspective.mjs
+node scripts/build.mjs
+PLAYWRIGHT_MODULE_PATH=/Applications/ChatGPT.app/Contents/Resources/cua_node/lib/node_modules/playwright/index.mjs node tests/build-smoke.mjs
 ```
 
 실제 셸 호출은 위 `node` 대신 절대 Node 경로를 사용했다. 테스트 출력은 `set -o pipefail`과 `tee evidence/iteration-N-*.log`로 저장했다. 서버 포트 4188, 루프백 바인딩이며 초기 HTTP 200을 확인했다. 브라우저 실행은 OS 제한 때문에 승인된 확장 권한의 임시 Chrome 프로필에서 실행했다.
@@ -16,3 +20,5 @@ PLAYWRIGHT_MODULE_PATH=/Applications/ChatGPT.app/Contents/Resources/cua_node/lib
 Git 기록: 별도 작업 트리 `work/main-integration`을 `main`에서 만들었다. 첫 두 기능 단위는 `git switch codex/pinball-club` → `git add pinball` → `git commit` → `git switch main` → `git merge --no-ff codex/pinball-club`. 이후 사용자 요청대로 main에서 `git add pinball` → `git commit` → `git push origin main` 방식이다.
 
 네트워크 사용: 사용자 제공 참고 페이지 읽기, 공식 Three.js 문서 확인, jsDelivr에서 고정 버전 0.183.0 코드·MIT 라이선스 다운로드, 승인된 GitHub 원격 조회/푸시 시도. 게임 실행 중에는 외부 요청이 없다.
+
+CLI 인증은 Fork의 저장된 토큰을 공유하지 않아 push에 실패했다. 이후 Fork의 main-integration 창에서 Push → main → default (origin/main), 태그·강제 푸시 미선택으로 전송했다. `git ls-remote origin refs/heads/main`으로 전송된 커밋을 확인했다.
